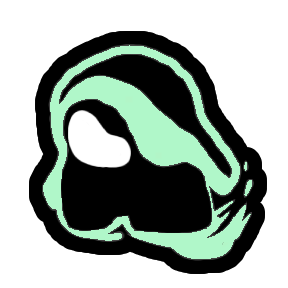
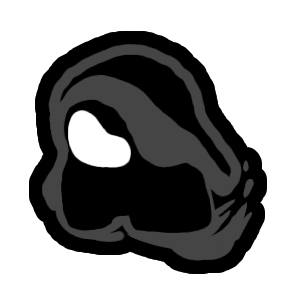
Add mod-name censoring and UI/assets updates
Introduce optional mod-name censorship and related UI changes. Add CensorModName setting, DisplayName/CensorVisibleText helpers, and ShouldCensorModName check; use censored DisplayName in credits/registration and Options title. Patch TouLocale and news fetching to censor visible and news text, and add VisibleTextCensorPatch. Update ExtensionCreditsColorPatch to handle multiple known labels and colorize properly. Replace RenameDoomsayer setting with CensorModName and adjust related locale keys. Change BacklashButtonSprite to use a new guardczycos.png asset (added), adjust logo sprite scale, update Vanisher color, and replace several resource images. Bump VersionPrefix to 1.2.1 and apply other small UI/asset tweaks.

Changed region(s): [[0.125, 0.1562, 0.875, 0.9062]]

diff --git a/TouMegaChujoweExtension/TouMegaChujoweExtensionPlugin.cs b/TouMegaChujoweExtension/TouMegaChujoweExtensionPlugin.cs
@@ -15,7 +15,7 @@ using TownOfUs;
 
 namespace TouMegaChujoweExtension;
 
-[BepInAutoPlugin("toumegachujowe.tou.extension", "Tou Mega Chujowe Extension")]
+[BepInAutoPlugin("toumegachujowe.tou.extension", "Tou Mega Ch**owe Extension")]
 [BepInProcess("Among Us.exe")]
 [BepInDependency(ReactorPlugin.Id)]
 [BepInDependency(MiraApiPlugin.Id)]
@@ -23,12 +23,15 @@ namespace TouMegaChujoweExtension;
 [ReactorModFlags(ModFlags.RequireOnAllClients)]
 public partial class TouMegaChujoweExtensionPlugin : BasePlugin, IMiraPlugin
 {
+    public const string UncensoredDisplayName = "Tou Mega Chujowe Extension";
+    public const string CensoredDisplayName = "Tou Mega Ch**owe Extension";
+
     /// <summary>
     ///     Gets the specified Culture for string manipulations.
     /// </summary> 
     public static CultureInfo Culture => TownOfUsPlugin.Culture;
     /// <inheritdoc />
-    public string OptionsTitleText => "TOU Mega Chujowe Extension";
+    public string OptionsTitleText => ShouldCensorModName ? "TOU Mega Ch**owe Extension" : "TOU Mega Chujowe Extension";
 
     /// <inheritdoc />
     public string CustomOptionMenuNameOne => TownOfUs.Modules.Localization.TouLocale.Get("TOUMCETabOptionBetterRoles");
@@ -39,6 +42,34 @@ public partial class TouMegaChujoweExtensionPlugin : BasePlugin, IMiraPlugin
     ///     Determines if the current build is a dev build or not.
     /// </summary>
     public static bool IsDevBuild => false;
+    public static bool ShouldCensorModName
+    {
+        get
+        {
+            try
+            {
+                return LocalSettingsTabSingleton<TouExtensionLocalSettings>.Instance?.CensorModName.Value ?? true;
+            }
+            catch
+            {
+                return true;
+            }
+        }
+    }
+
+    public static string DisplayName => ShouldCensorModName ? CensoredDisplayName : UncensoredDisplayName;
+    public static string CensorVisibleText(string text)
+    {
+        if (!ShouldCensorModName || string.IsNullOrEmpty(text))
+            return text;
+
+        return text
+            .Replace("TOU Mega Chujowe Extension", "TOU Mega Ch**owe Extension")
+            .Replace("Tou Mega Chujowe Extension", CensoredDisplayName)
+            .Replace("Mega Chujowe Perfect Comms", "Mega Ch**owe Perfect Comms")
+            .Replace("ToU: Chujowe", "ToU: Ch**owe");
+    }
+
     /// <inheritdoc />
     public ConfigFile GetConfigFile() => Config;
 
@@ -50,7 +81,7 @@ public partial class TouMegaChujoweExtensionPlugin : BasePlugin, IMiraPlugin
         DuplicateChecker.Check();
         Harmony = new Harmony(Id);
 
-        ReactorCredits.Register("Tou Mega Chujowe Extension", Version, IsDevBuild, ReactorCredits.AlwaysShow);
+        ReactorCredits.Register(DisplayName, Version, IsDevBuild, ReactorCredits.AlwaysShow);
         IL2CPPChainloader.Instance.Finished += Modules.ExtensionLocale.SearchInternalLocale;
         IL2CPPChainloader.Instance.Finished += LawyerTeamChatRegistration.Register;
         IL2CPPChainloader.Instance.Finished += Patches.Roles.Lovers.LoverMeetingChatRegistration.Register;

diff --git a/TouMegaChujoweExtension/Patches/UI/NewsAnnouncementPatch.cs b/TouMegaChujoweExtension/Patches/UI/NewsAnnouncementPatch.cs
@@ -100,9 +100,9 @@ public static class ExtensionModNewsFetcher
                 var dateString = newsElement.GetProperty("Date").GetString() ?? "Unknown Date";
                 var numberString = newsElement.GetProperty("Number").GetString();
                 var number = numberString != null ? int.Parse(numberString, TouMegaChujoweExtensionPlugin.Culture) : 0;
-                var shortTitle = newsElement.GetProperty("ShortTitle").GetString() ?? "No Short Title";
-                var subTitle = newsElement.GetProperty("SubTitle").GetString() ?? "No Subtitle";
-                var title = newsElement.GetProperty("Title").GetString() ?? "No Title";
+                var shortTitle = CensorNewsTitle(newsElement.GetProperty("ShortTitle").GetString() ?? "No Short Title");
+                var subTitle = CensorNewsTitle(newsElement.GetProperty("SubTitle").GetString() ?? "No Subtitle");
+                var title = CensorNewsTitle(newsElement.GetProperty("Title").GetString() ?? "No Title");
                 
                 // Join with empty string to maintain formatting from news.json
                 var body = string.Join("",
@@ -145,9 +145,9 @@ public static class ExtensionModNewsFetcher
                 var dateString = newsElement.GetProperty("Date").GetString() ?? "Unknown Date";
                 var numberString = newsElement.GetProperty("Number").GetString();
                 var number = numberString != null ? int.Parse(numberString, TouMegaChujoweExtensionPlugin.Culture) : 0;
-                var shortTitle = newsElement.GetProperty("ShortTitle").GetString() ?? "No Short Title";
-                var subTitle = newsElement.GetProperty("SubTitle").GetString() ?? "No Subtitle";
-                var title = newsElement.GetProperty("Title").GetString() ?? "No Title";
+                var shortTitle = CensorNewsTitle(newsElement.GetProperty("ShortTitle").GetString() ?? "No Short Title");
+                var subTitle = CensorNewsTitle(newsElement.GetProperty("SubTitle").GetString() ?? "No Subtitle");
+                var title = CensorNewsTitle(newsElement.GetProperty("Title").GetString() ?? "No Title");
                 var body = string.Join("",
                     newsElement.GetProperty("Text").EnumerateArray().Select(element => element.GetString()));
                 
@@ -161,6 +161,9 @@ public static class ExtensionModNewsFetcher
             Error($"[ExtensionNews] Error loading local news: {ex.Message}");
         }
     }
+
+    private static string CensorNewsTitle(string text)
+        => TouMegaChujoweExtensionPlugin.CensorVisibleText(text);
 
     [HarmonyPatch]
     public static class ExtensionModNewsHistory

diff --git a/TouMegaChujoweExtension/Patches/UI/ExtensionCreditsColorPatch.cs b/TouMegaChujoweExtension/Patches/UI/ExtensionCreditsColorPatch.cs
@@ -8,25 +8,46 @@ namespace TouMegaChujoweExtension.Patches.UI;
 public static class ExtensionCreditsColorPatch
 {
     private const string CreditsColor = "#96456d";
-    private static readonly string CreditsLabel = "Tou Mega Chujowe Extension " + TouMegaChujoweExtensionPlugin.Version;
+    private static readonly string[] KnownLabels =
+    [
+        TouMegaChujoweExtensionPlugin.UncensoredDisplayName + " " + TouMegaChujoweExtensionPlugin.Version,
+        TouMegaChujoweExtensionPlugin.CensoredDisplayName + " " + TouMegaChujoweExtensionPlugin.Version
+    ];
 
     private static void Postfix(ref string? __result)
     {
         if (string.IsNullOrEmpty(__result))
             return;
 
-        var coloredLabel = $"<color={CreditsColor}><noparse>{CreditsLabel}</noparse></color>";
-        var updated = Regex.Replace(
-            __result,
-            $@"<color=#[0-9A-Fa-f]{{3,8}}><noparse>{Regex.Escape(CreditsLabel)}</noparse></color>",
-            coloredLabel);
+        var creditsLabel = TouMegaChujoweExtensionPlugin.DisplayName + " " + TouMegaChujoweExtensionPlugin.Version;
+        var coloredLabel = $"<color={CreditsColor}>{creditsLabel}</color>";
 
-        if (updated == __result)
-            updated = __result.Replace($"<noparse>{CreditsLabel}</noparse>", coloredLabel);
+        foreach (var knownLabel in KnownLabels)
+        {
+            var updated = Regex.Replace(
+                __result,
+                $@"<color=#[0-9A-Fa-f]{{3,8}}><noparse>{Regex.Escape(knownLabel)}</noparse></color>",
+                coloredLabel);
 
-        if (updated == __result)
-            updated = __result.Replace(CreditsLabel, coloredLabel);
+            if (updated != __result)
+            {
+                __result = updated;
+                return;
+            }
 
-        __result = updated;
+            updated = __result.Replace($"<noparse>{knownLabel}</noparse>", coloredLabel);
+            if (updated != __result)
+            {
+                __result = updated;
+                return;
+            }
+
+            updated = __result.Replace(knownLabel, coloredLabel);
+            if (updated != __result)
+            {
+                __result = updated;
+                return;
+            }
+        }
     }
 }

diff --git a/TouMegaChujoweExtension/TouExtensionLocalSettings.cs b/TouMegaChujoweExtension/TouExtensionLocalSettings.cs
@@ -12,13 +12,13 @@ public class TouExtensionLocalSettings : LocalSettingsTab
         EnableNauseaCameraShake = config.Bind("Accessibility", "EnableNauseaCameraShake", true);
         UseLegacyGuessDeathAnimation = config.Bind("Visuals", "UseLegacyGuessDeathAnimation", false);
         UseClassicAssassinGuessing = config.Bind("Visuals", "UseClassicAssassinGuessing", false);
-        RenameDoomsayerToForeteller = config.Bind("Visuals", "RenameDoomsayerToForeteller", true);
+        CensorModName = config.Bind("Visuals", "CensorModName", true);
         UsePolishLanguage = config.Bind("Localization", "UsePolishLanguage", false);
 
         UsePolishLanguage.SettingChanged += (s, e) => Modules.ExtensionLocale.SearchInternalLocale();
     }
 
-    public override string TabName => "ToU: Chujowe";
+    public override string TabName => TouMegaChujoweExtensionPlugin.CensorVisibleText("ToU: Chujowe");
     protected override bool ShouldCreateLabels => true;
 
     public override void Open()
@@ -53,8 +53,8 @@ public class TouExtensionLocalSettings : LocalSettingsTab
     [LocalizedLocalToggleSetting("ExtensionLocalSettingUseClassicAssassinGuessing")]
     public ConfigEntry<bool> UseClassicAssassinGuessing { get; private set; }
 	
-    [LocalizedLocalToggleSetting("ExtensionLocalSettingRenameDoomsayerToForeteller")]
-    public ConfigEntry<bool> RenameDoomsayerToForeteller { get; private set; }
+    [LocalizedLocalToggleSetting("ExtensionLocalSettingCensorModName")]
+    public ConfigEntry<bool> CensorModName { get; private set; }
 
     [LocalizedLocalToggleSetting("ExtensionLocalSettingUsePolishLanguage")]
     public ConfigEntry<bool> UsePolishLanguage { get; private set; }

diff --git a/TouMegaChujoweExtension/Assets/TouExtensionCrewAssets.cs b/TouMegaChujoweExtension/Assets/TouExtensionCrewAssets.cs
@@ -13,7 +13,7 @@ namespace TouMegaChujoweExtension.Assets
         public static LoadableAsset<Sprite> VanishButtonSprite { get; } = new LoadableResourceAsset("TouMegaChujoweExtension.Resources.Buttons.Vanish_Button.png", 100f);
         public static LoadableAsset<Sprite> UnvanishButtonSprite { get; } = new LoadableResourceAsset("TouMegaChujoweExtension.Resources.Buttons.Unvanish_Button.png", 100f);
         public static LoadableAsset<Sprite> GuardButtonSprite { get; } = new LoadableResourceAsset("TouMegaChujoweExtension.Resources.Buttons.Guard_Icon.png", 200f);
-        public static LoadableAsset<Sprite> BacklashButtonSprite { get; } = TouCrewAssets.Transport;
+        public static LoadableAsset<Sprite> BacklashButtonSprite { get; } = new LoadableResourceAsset($"{ShortPath}.guardczycos.png", 100f);
         public static LoadableAsset<Sprite> GuardShieldSprite { get; } = new LoadableResourceAsset("TouMegaChujoweExtension.Resources.Anims.Guard_Anim_Front.png", 150f);
         public static LoadableAsset<Sprite> ZoomOutButtonSprite { get; } = new LoadableResourceAsset("TouMegaChujoweExtension.Resources.Buttons.Zoom_Out_Icon.png", 400f);
         public static LoadableAsset<Sprite> ZoomInButtonSprite { get; } = new LoadableResourceAsset("TouMegaChujoweExtension.Resources.Buttons.Zoom_Out_Icon.png", 400f);

diff --git a/TouMegaChujoweExtension/TouExtensionColors.cs b/TouMegaChujoweExtension/TouExtensionColors.cs
@@ -11,7 +11,7 @@ public static class TouExtensionColors
     public static Color Mirage => TownOfUsColors.UseBasic ? Palette.CrewmateBlue : new Color32(222, 168, 94, 255);
     public static Color President => TownOfUsColors.UseBasic ? Palette.CrewmateBlue : new Color32(150, 100, 200, 255);
     public static Color Evoker => TownOfUsColors.UseBasic ? Palette.CrewmateBlue : new Color32(128, 179, 255, 255);
-    public static Color Vanisher => TownOfUsColors.UseBasic ? Palette.CrewmateBlue : new Color32(145, 230, 184, 255);
+    public static Color Vanisher => TownOfUsColors.UseBasic ? Palette.CrewmateBlue : new Color32(88, 88, 88, 255);
     public static Color Bodyguard => TownOfUsColors.UseBasic ? Palette.CrewmateBlue : new Color32(0, 51, 128, 255);
     public static Color Sage => TownOfUsColors.UseBasic ? Palette.CrewmateBlue : new Color32(200, 162, 255, 255);
     public static Color VampireHunter => TownOfUsColors.UseBasic ? Palette.CrewmateBlue : new Color32(150, 100, 200, 255);

diff --git a/TouMegaChujoweExtension/Patches/UI/VisibleTextCensorPatch.cs b/TouMegaChujoweExtension/Patches/UI/VisibleTextCensorPatch.cs
@@ -1,0 +1,23 @@
+using HarmonyLib;
+using MiraAPI.Roles;
+using TownOfUs.Modules.Localization;
+
+namespace TouMegaChujoweExtension.Patches.UI;
+
+[HarmonyPatch]
+public static class VisibleTextCensorPatch
+{
+    [HarmonyPatch(typeof(TouLocale), nameof(TouLocale.Get), typeof(SupportedLangs), typeof(string), typeof(string))]
+    [HarmonyPostfix]
+    public static void TouLocaleGetPostfix(ref string __result)
+    {
+        __result = TouMegaChujoweExtensionPlugin.CensorVisibleText(__result);
+    }
+
+    [HarmonyPatch(typeof(TouLocale), nameof(TouLocale.GetParsed), typeof(SupportedLangs), typeof(string), typeof(string), typeof(Dictionary<string, string>))]
+    [HarmonyPostfix]
+    public static void TouLocaleGetParsedPostfix(ref string __result)
+    {
+        __result = TouMegaChujoweExtensionPlugin.CensorVisibleText(__result);
+    }
+}

diff --git a/TouMegaChujoweExtension/Assets/TouExtensionAssets.cs b/TouMegaChujoweExtension/Assets/TouExtensionAssets.cs
@@ -6,7 +6,7 @@ namespace TouMegaChujoweExtension.Assets
     public static class TouExtensionAssets
     {
         //logo
-        public static LoadableAsset<Sprite> ExtensionLogo { get; } = new LoadableResourceAsset("TouMegaChujoweExtension.Resources.Extension_Logo_Icon.png", 600f);
+        public static LoadableAsset<Sprite> ExtensionLogo { get; } = new LoadableResourceAsset("TouMegaChujoweExtension.Resources.Extension_Logo_Icon.png", 165f);
         //draft
         public static LoadableAsset<Sprite> DraftBackground { get; } = new LoadableResourceAsset("TouMegaChujoweExtension.Resources.Draft_Background.png");
         public static LoadableAsset<Sprite> DraftRandomIcon { get; } = new LoadableResourceAsset("TouMegaChujoweExtension.Resources.Buttons.Draft_Random_Icon.png");

diff --git a/TouMegaChujoweExtension/Patches/Roles/Foreteller/RenameDoomsayerToForeteller.cs b/TouMegaChujoweExtension/Patches/Roles/Foreteller/RenameDoomsayerToForeteller.cs
@@ -1,5 +1,4 @@
 using HarmonyLib;
-using MiraAPI.LocalSettings;
 using MiraAPI.Roles;
 using TownOfUs.Modules.Localization;
 using TownOfUs.Options.Roles.Neutral;
@@ -15,8 +14,7 @@ public static class RenameDoomsayerToForeteller
     {
         get
         {
-            if (_inPatch) return false;
-            return LocalSettingsTabSingleton<TouExtensionLocalSettings>.Instance.RenameDoomsayerToForeteller.Value;
+            return !_inPatch;
         }
     }
 
